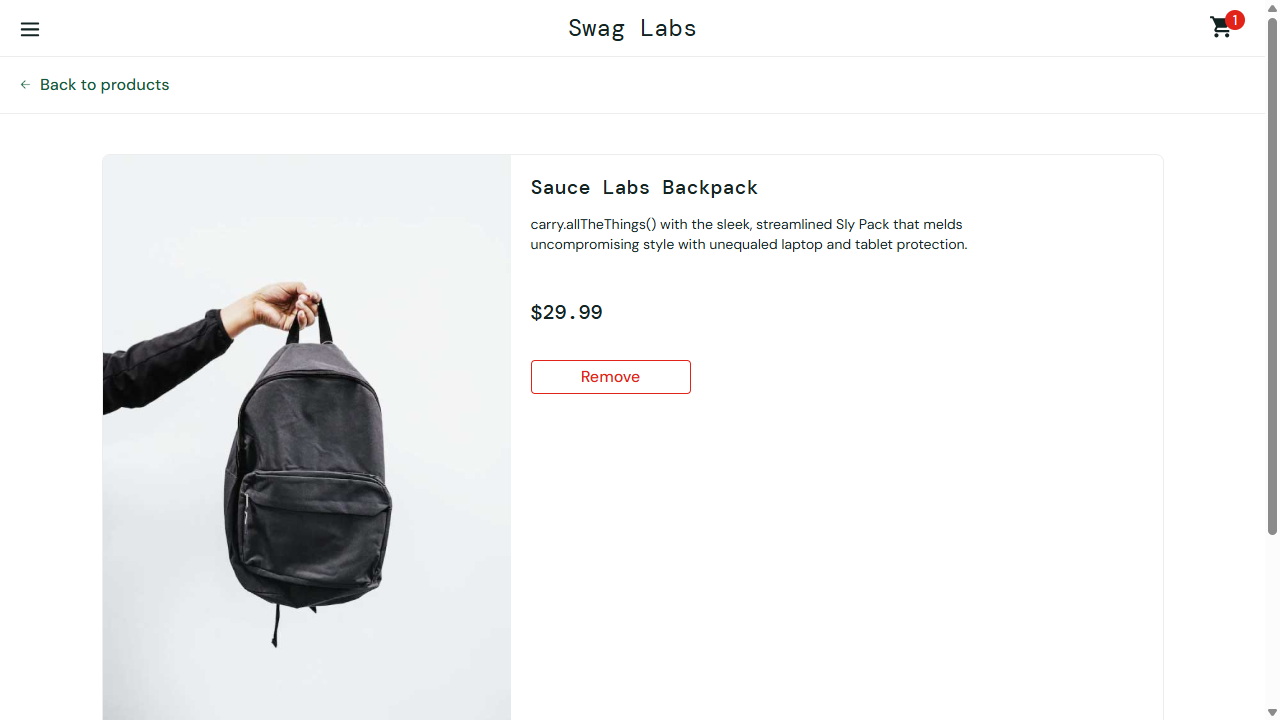
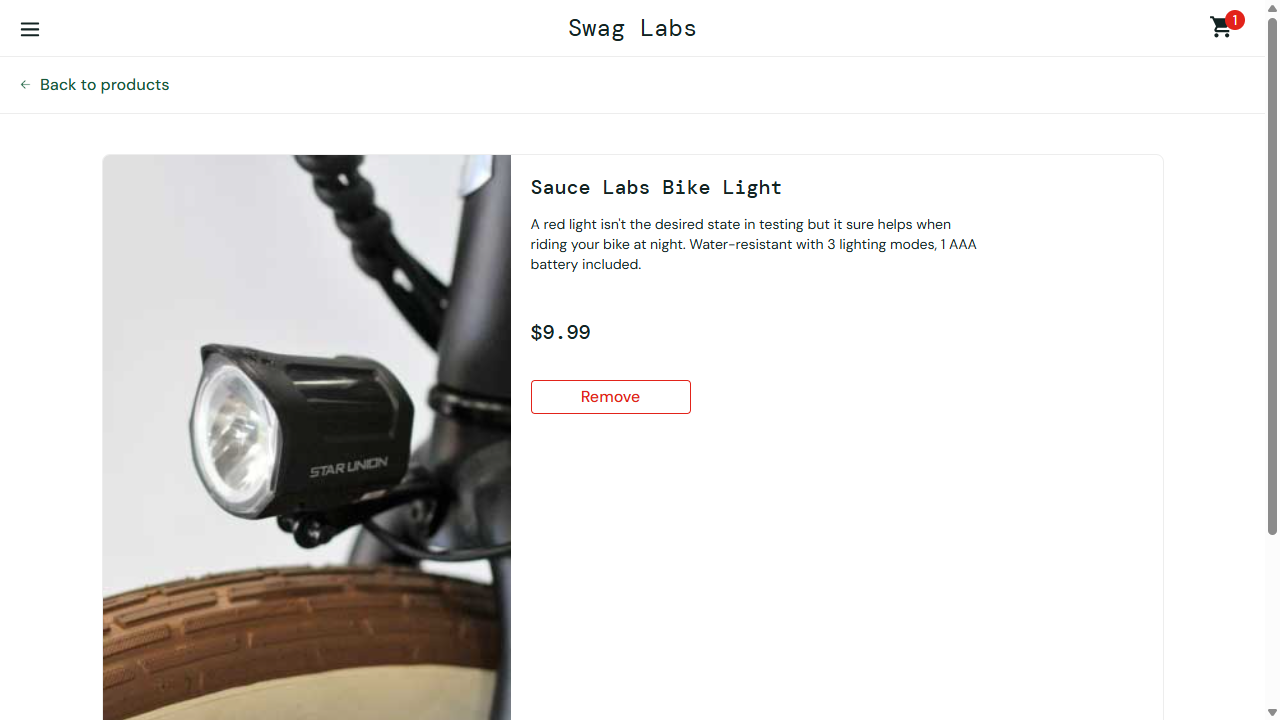
added product name to the scenario outline and added sort by option to the login page

Changed region(s): [[0.0625, 0.2139, 0.75, 1.0], [0.4375, 0.5194, 0.5, 0.5806], [0.5312, 0.2444, 0.625, 0.275]]

diff --git a/tests/SwagLabsPageObjects/SwagLoginPage.js b/tests/SwagLabsPageObjects/SwagLoginPage.js
@@ -6,6 +6,7 @@ class SwagLoginPage{
         this.username = this.page.getByPlaceholder("Username");
         this.password = this.page.getByPlaceholder("Password");
         this.loginButton = this.page.getByRole("button",{name: "Login"});
+        this.sort = this.page.locator(".product_sort_container");
     }       
     
     async goto(){
@@ -26,6 +27,8 @@ class SwagLoginPage{
         await this.page.waitForLoadState('networkidle');
         console.log('Title of the page is  --->' + await this.page.title());
         expect(await this.page.title()).toBe('Swag Labs');
+        await expect(this.page.url()).toContain('/inventory.html');
+        await this.sort.selectOption('lohi');
     }
 }
 module.exports = {SwagLoginPage};